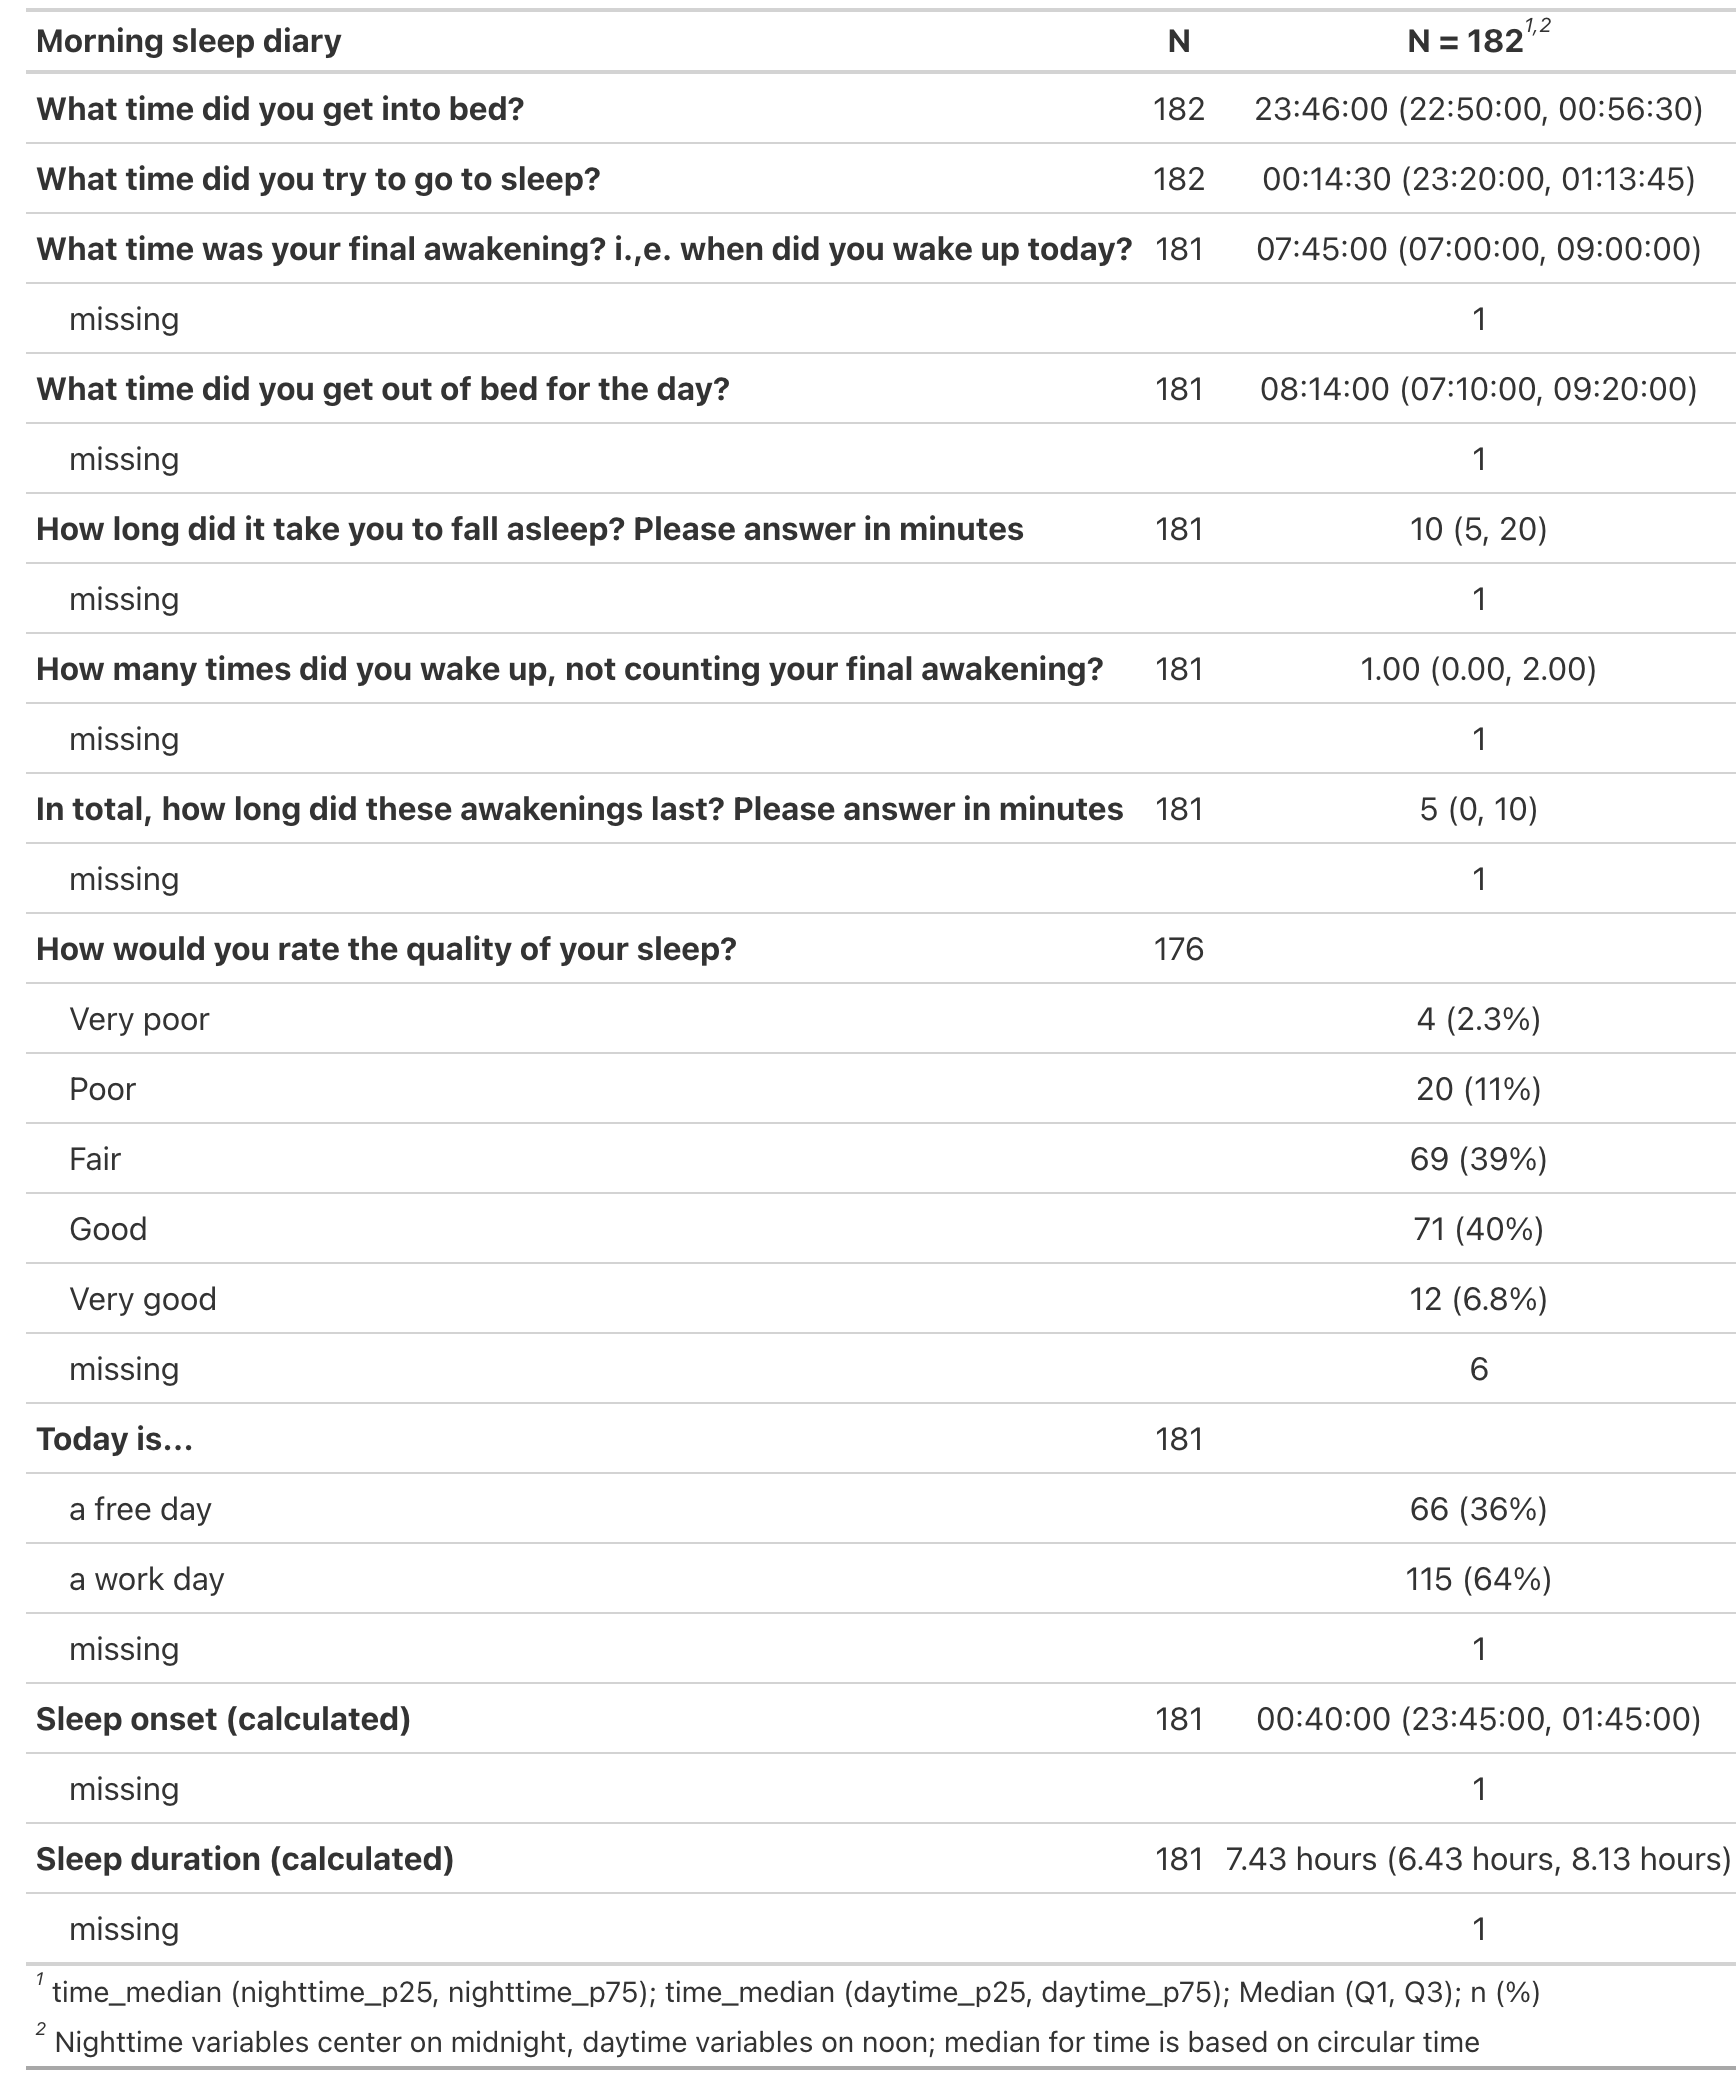
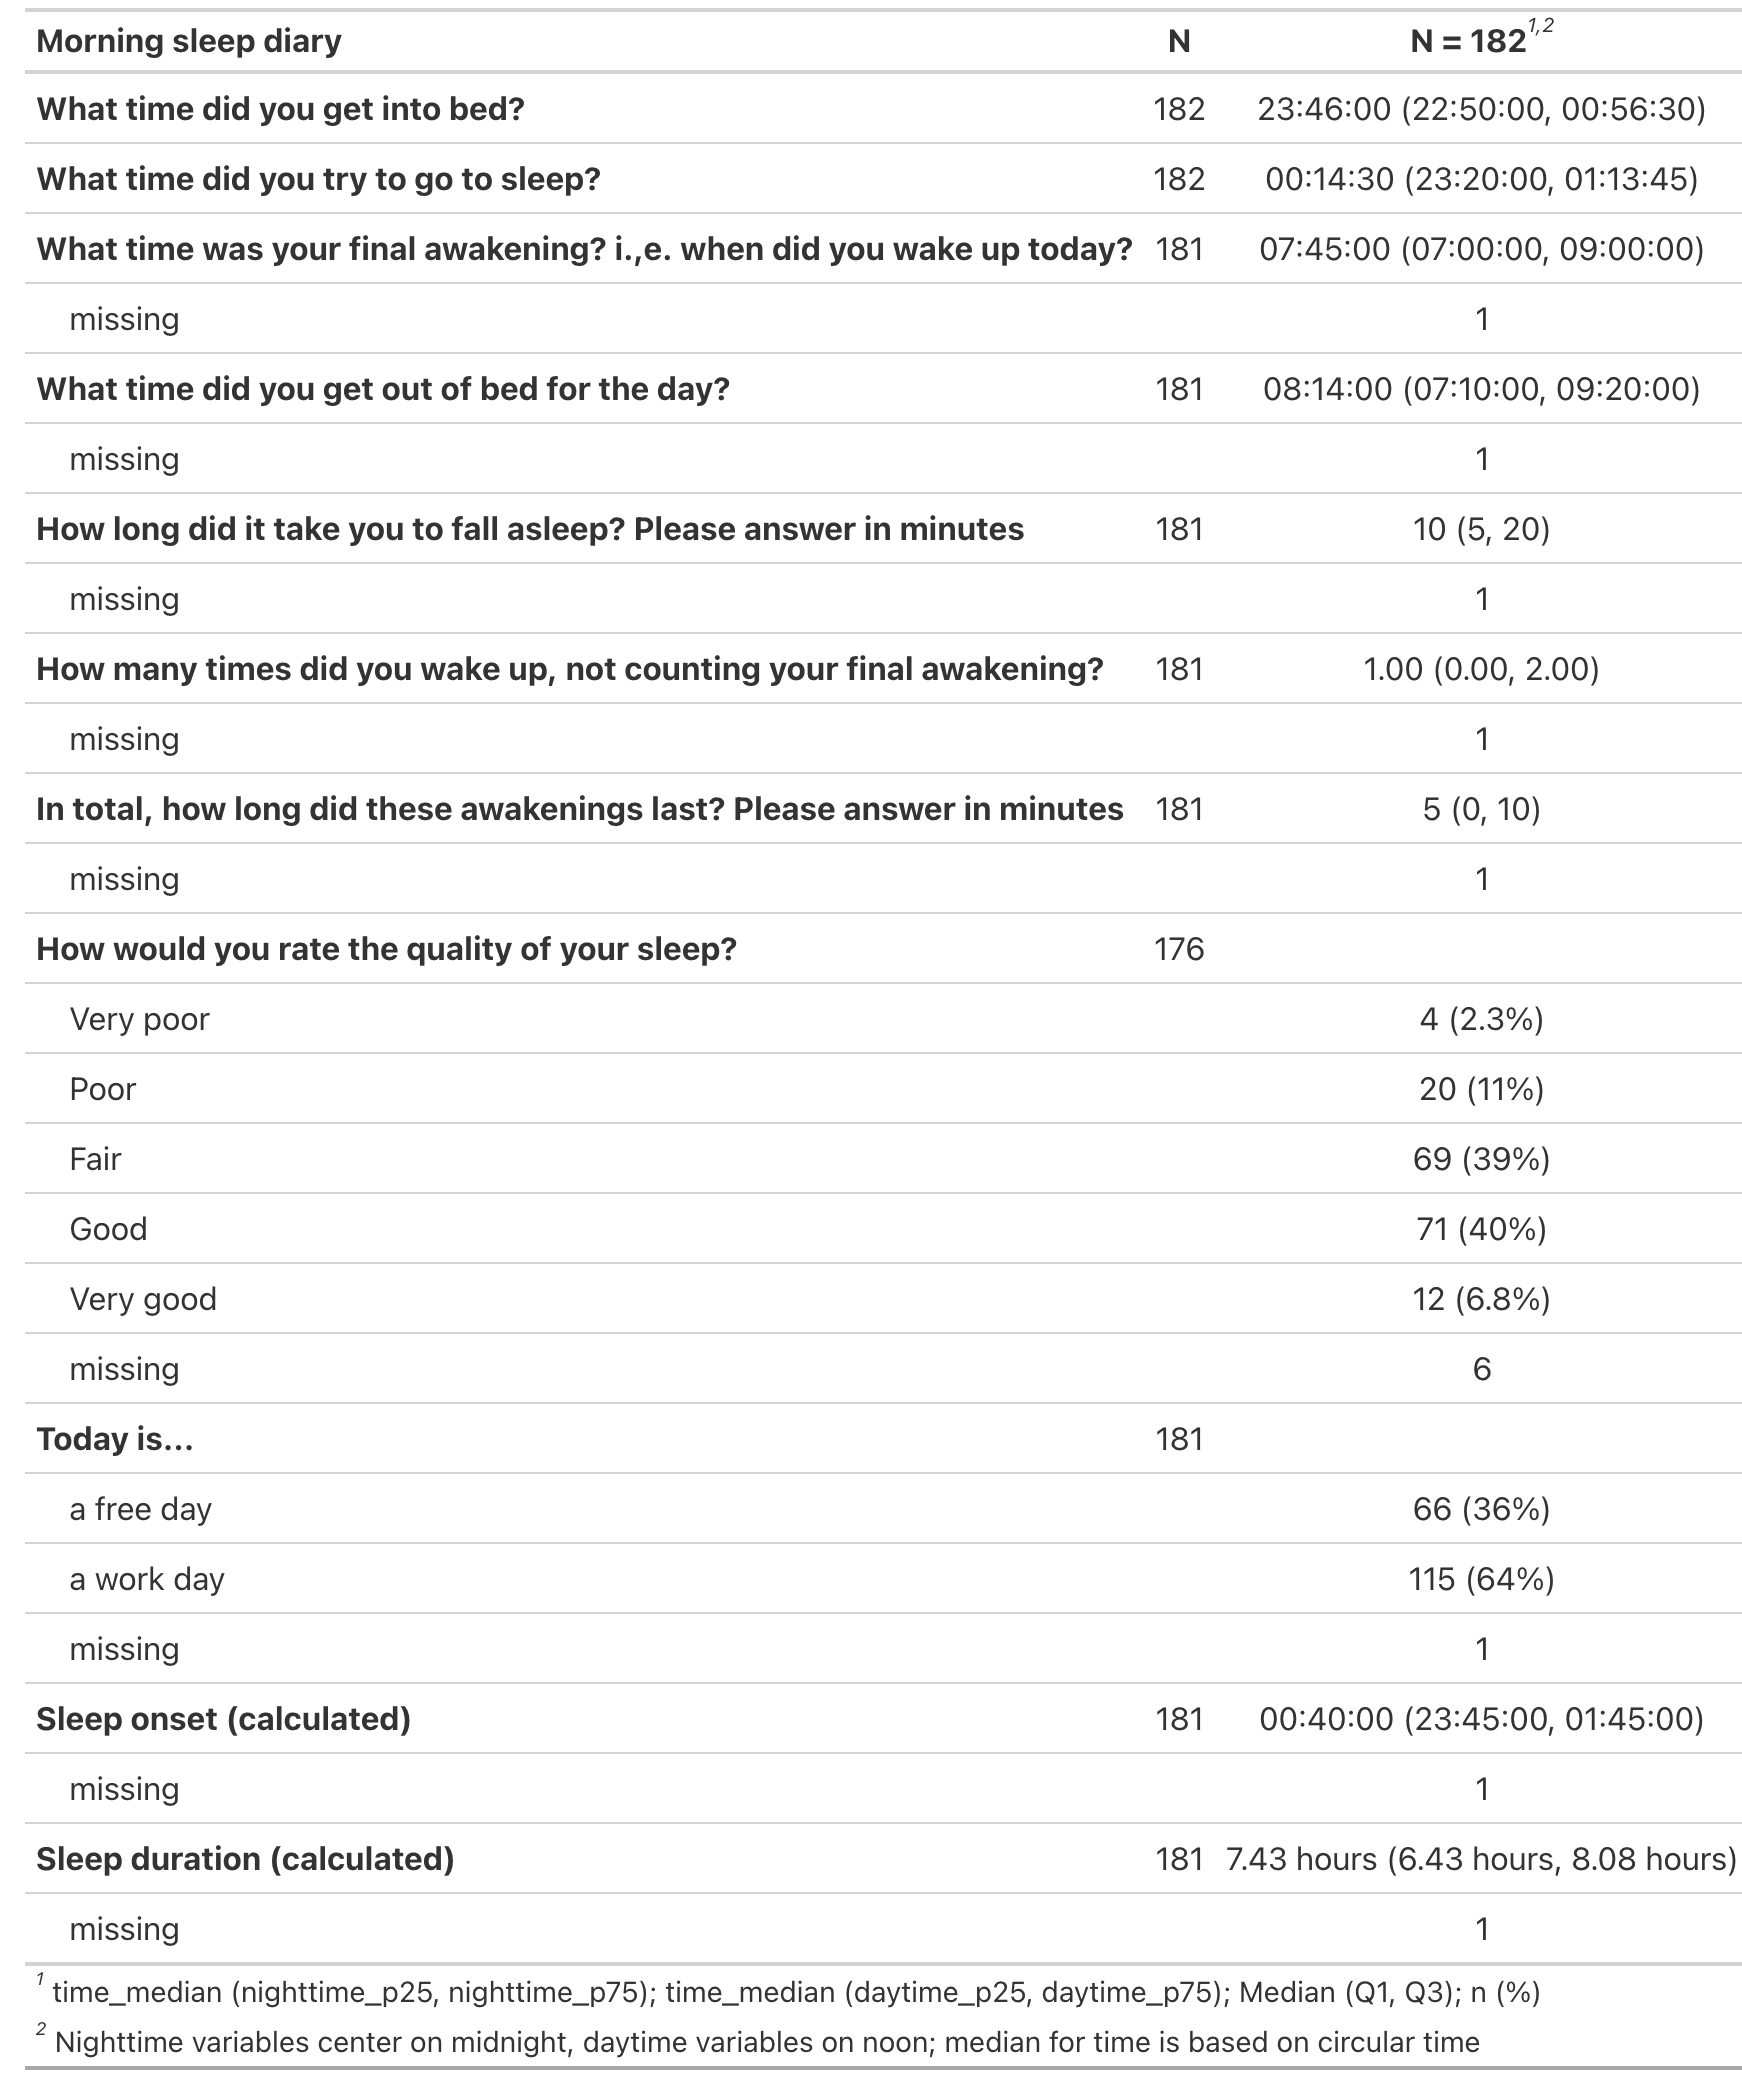
updated sleepdiary

diff --git a/scripts/import_sleepdiaries.html b/scripts/import_sleepdiaries.html
@@ -2428,20 +2428,20 @@ startdate, enddate, scheduledate, status, supplementaldata, serializedresult</co
 <span id="cb19-15"><a href="#cb19-15" aria-hidden="true" tabindex="-1"></a></span>
 <span id="cb19-16"><a href="#cb19-16" aria-hidden="true" tabindex="-1"></a>table_sleep</span></code></pre></div><button title="Copy to Clipboard" class="code-copy-button"><i class="bi"></i></button></div>
 <div class="cell-output-display">
-<div id="iqwpwjwgbz" style="padding-left:0px;padding-right:0px;padding-top:10px;padding-bottom:10px;overflow-x:auto;overflow-y:auto;width:auto;height:auto;">
-<style>#iqwpwjwgbz table {
+<div id="trwwfvjdoe" style="padding-left:0px;padding-right:0px;padding-top:10px;padding-bottom:10px;overflow-x:auto;overflow-y:auto;width:auto;height:auto;">
+<style>#trwwfvjdoe table {
 font-family: system-ui, 'Segoe UI', Roboto, Helvetica, Arial, sans-serif, 'Apple Color Emoji', 'Segoe UI Emoji', 'Segoe UI Symbol', 'Noto Color Emoji';
 -webkit-font-smoothing: antialiased;
 -moz-osx-font-smoothing: grayscale;
 }
-#iqwpwjwgbz thead, #iqwpwjwgbz tbody, #iqwpwjwgbz tfoot, #iqwpwjwgbz tr, #iqwpwjwgbz td, #iqwpwjwgbz th {
+#trwwfvjdoe thead, #trwwfvjdoe tbody, #trwwfvjdoe tfoot, #trwwfvjdoe tr, #trwwfvjdoe td, #trwwfvjdoe th {
 border-style: none;
 }
-#iqwpwjwgbz p {
+#trwwfvjdoe p {
 margin: 0;
 padding: 0;
 }
-#iqwpwjwgbz .gt_table {
+#trwwfvjdoe .gt_table {
 display: table;
 border-collapse: collapse;
 line-height: normal;
@@ -2466,11 +2466,11 @@ border-left-style: none;
 border-left-width: 2px;
 border-left-color: #D3D3D3;
 }
-#iqwpwjwgbz .gt_caption {
+#trwwfvjdoe .gt_caption {
 padding-top: 4px;
 padding-bottom: 4px;
 }
-#iqwpwjwgbz .gt_title {
+#trwwfvjdoe .gt_title {
 color: #333333;
 font-size: 125%;
 font-weight: initial;
@@ -2481,7 +2481,7 @@ padding-right: 5px;
 border-bottom-color: #FFFFFF;
 border-bottom-width: 0;
 }
-#iqwpwjwgbz .gt_subtitle {
+#trwwfvjdoe .gt_subtitle {
 color: #333333;
 font-size: 85%;
 font-weight: initial;
@@ -2492,7 +2492,7 @@ padding-right: 5px;
 border-top-color: #FFFFFF;
 border-top-width: 0;
 }
-#iqwpwjwgbz .gt_heading {
+#trwwfvjdoe .gt_heading {
 background-color: #FFFFFF;
 text-align: center;
 border-bottom-color: #FFFFFF;
@@ -2503,12 +2503,12 @@ border-right-style: none;
 border-right-width: 1px;
 border-right-color: #D3D3D3;
 }
-#iqwpwjwgbz .gt_bottom_border {
+#trwwfvjdoe .gt_bottom_border {
 border-bottom-style: solid;
 border-bottom-width: 2px;
 border-bottom-color: #D3D3D3;
 }
-#iqwpwjwgbz .gt_col_headings {
+#trwwfvjdoe .gt_col_headings {
 border-top-style: solid;
 border-top-width: 2px;
 border-top-color: #D3D3D3;
@@ -2522,7 +2522,7 @@ border-right-style: none;
 border-right-width: 1px;
 border-right-color: #D3D3D3;
 }
-#iqwpwjwgbz .gt_col_heading {
+#trwwfvjdoe .gt_col_heading {
 color: #333333;
 background-color: #FFFFFF;
 font-size: 100%;
@@ -2541,7 +2541,7 @@ padding-left: 5px;
 padding-right: 5px;
 overflow-x: hidden;
 }
-#iqwpwjwgbz .gt_column_spanner_outer {
+#trwwfvjdoe .gt_column_spanner_outer {
 color: #333333;
 background-color: #FFFFFF;
 font-size: 100%;
@@ -2552,13 +2552,13 @@ padding-bottom: 0;
 padding-left: 4px;
 padding-right: 4px;
 }
-#iqwpwjwgbz .gt_column_spanner_outer:first-child {
+#trwwfvjdoe .gt_column_spanner_outer:first-child {
 padding-left: 0;
 }
-#iqwpwjwgbz .gt_column_spanner_outer:last-child {
+#trwwfvjdoe .gt_column_spanner_outer:last-child {
 padding-right: 0;
 }
-#iqwpwjwgbz .gt_column_spanner {
+#trwwfvjdoe .gt_column_spanner {
 border-bottom-style: solid;
 border-bottom-width: 2px;
 border-bottom-color: #D3D3D3;
@@ -2569,10 +2569,10 @@ overflow-x: hidden;
 display: inline-block;
 width: 100%;
 }
-#iqwpwjwgbz .gt_spanner_row {
+#trwwfvjdoe .gt_spanner_row {
 border-bottom-style: hidden;
 }
-#iqwpwjwgbz .gt_group_heading {
+#trwwfvjdoe .gt_group_heading {
 padding-top: 8px;
 padding-bottom: 8px;
 padding-left: 5px;
@@ -2597,7 +2597,7 @@ border-right-color: #D3D3D3;
 vertical-align: middle;
 text-align: left;
 }
-#iqwpwjwgbz .gt_empty_group_heading {
+#trwwfvjdoe .gt_empty_group_heading {
 padding: 0.5px;
 color: #333333;
 background-color: #FFFFFF;
@@ -2611,13 +2611,13 @@ border-bottom-width: 2px;
 border-bottom-color: #D3D3D3;
 vertical-align: middle;
 }
-#iqwpwjwgbz .gt_from_md > :first-child {
+#trwwfvjdoe .gt_from_md > :first-child {
 margin-top: 0;
 }
-#iqwpwjwgbz .gt_from_md > :last-child {
+#trwwfvjdoe .gt_from_md > :last-child {
 margin-bottom: 0;
 }
-#iqwpwjwgbz .gt_row {
+#trwwfvjdoe .gt_row {
 padding-top: 8px;
 padding-bottom: 8px;
 padding-left: 5px;
@@ -2635,7 +2635,7 @@ border-right-color: #D3D3D3;
 vertical-align: middle;
 overflow-x: hidden;
 }
-#iqwpwjwgbz .gt_stub {
+#trwwfvjdoe .gt_stub {
 color: #333333;
 background-color: #FFFFFF;
 font-size: 100%;
@@ -2647,7 +2647,7 @@ border-right-color: #D3D3D3;
 padding-left: 5px;
 padding-right: 5px;
 }
-#iqwpwjwgbz .gt_stub_row_group {
+#trwwfvjdoe .gt_stub_row_group {
 color: #333333;
 background-color: #FFFFFF;
 font-size: 100%;
@@ -2660,13 +2660,13 @@ padding-left: 5px;
 padding-right: 5px;
 vertical-align: top;
 }
-#iqwpwjwgbz .gt_row_group_first td {
+#trwwfvjdoe .gt_row_group_first td {
 border-top-width: 2px;
 }
-#iqwpwjwgbz .gt_row_group_first th {
+#trwwfvjdoe .gt_row_group_first th {
 border-top-width: 2px;
 }
-#iqwpwjwgbz .gt_summary_row {
+#trwwfvjdoe .gt_summary_row {
 color: #333333;
 background-color: #FFFFFF;
 text-transform: inherit;
@@ -2675,14 +2675,14 @@ padding-bottom: 8px;
 padding-left: 5px;
 padding-right: 5px;
 }
-#iqwpwjwgbz .gt_first_summary_row {
+#trwwfvjdoe .gt_first_summary_row {
 border-top-style: solid;
 border-top-color: #D3D3D3;
 }
-#iqwpwjwgbz .gt_first_summary_row.thick {
+#trwwfvjdoe .gt_first_summary_row.thick {
 border-top-width: 2px;
 }
-#iqwpwjwgbz .gt_last_summary_row {
+#trwwfvjdoe .gt_last_summary_row {
 padding-top: 8px;
 padding-bottom: 8px;
 padding-left: 5px;
@@ -2691,7 +2691,7 @@ border-bottom-style: solid;
 border-bottom-width: 2px;
 border-bottom-color: #D3D3D3;
 }
-#iqwpwjwgbz .gt_grand_summary_row {
+#trwwfvjdoe .gt_grand_summary_row {
 color: #333333;
 background-color: #FFFFFF;
 text-transform: inherit;
@@ -2700,7 +2700,7 @@ padding-bottom: 8px;
 padding-left: 5px;
 padding-right: 5px;
 }
-#iqwpwjwgbz .gt_first_grand_summary_row {
+#trwwfvjdoe .gt_first_grand_summary_row {
 padding-top: 8px;
 padding-bottom: 8px;
 padding-left: 5px;
@@ -2709,7 +2709,7 @@ border-top-style: double;
 border-top-width: 6px;
 border-top-color: #D3D3D3;
 }
-#iqwpwjwgbz .gt_last_grand_summary_row_top {
+#trwwfvjdoe .gt_last_grand_summary_row_top {
 padding-top: 8px;
 padding-bottom: 8px;
 padding-left: 5px;
@@ -2718,10 +2718,10 @@ border-bottom-style: double;
 border-bottom-width: 6px;
 border-bottom-color: #D3D3D3;
 }
-#iqwpwjwgbz .gt_striped {
+#trwwfvjdoe .gt_striped {
 background-color: rgba(128, 128, 128, 0.05);
 }
-#iqwpwjwgbz .gt_table_body {
+#trwwfvjdoe .gt_table_body {
 border-top-style: solid;
 border-top-width: 2px;
 border-top-color: #D3D3D3;
@@ -2729,7 +2729,7 @@ border-bottom-style: solid;
 border-bottom-width: 2px;
 border-bottom-color: #D3D3D3;
 }
-#iqwpwjwgbz .gt_footnotes {
+#trwwfvjdoe .gt_footnotes {
 color: #333333;
 background-color: #FFFFFF;
 border-bottom-style: none;
@@ -2742,7 +2742,7 @@ border-right-style: none;
 border-right-width: 2px;
 border-right-color: #D3D3D3;
 }
-#iqwpwjwgbz .gt_footnote {
+#trwwfvjdoe .gt_footnote {
 margin: 0px;
 font-size: 90%;
 padding-top: 4px;
@@ -2750,7 +2750,7 @@ padding-bottom: 4px;
 padding-left: 5px;
 padding-right: 5px;
 }
-#iqwpwjwgbz .gt_sourcenotes {
+#trwwfvjdoe .gt_sourcenotes {
 color: #333333;
 background-color: #FFFFFF;
 border-bottom-style: none;
@@ -2763,64 +2763,64 @@ border-right-style: none;
 border-right-width: 2px;
 border-right-color: #D3D3D3;
 }
-#iqwpwjwgbz .gt_sourcenote {
+#trwwfvjdoe .gt_sourcenote {
 font-size: 90%;
 padding-top: 4px;
 padding-bottom: 4px;
 padding-left: 5px;
 padding-right: 5px;
 }
-#iqwpwjwgbz .gt_left {
+#trwwfvjdoe .gt_left {
 text-align: left;
 }
-#iqwpwjwgbz .gt_center {
+#trwwfvjdoe .gt_center {
 text-align: center;
 }
-#iqwpwjwgbz .gt_right {
+#trwwfvjdoe .gt_right {
 text-align: right;
 font-variant-numeric: tabular-nums;
 }
-#iqwpwjwgbz .gt_font_normal {
+#trwwfvjdoe .gt_font_normal {
 font-weight: normal;
 }
-#iqwpwjwgbz .gt_font_bold {
+#trwwfvjdoe .gt_font_bold {
 font-weight: bold;
 }
-#iqwpwjwgbz .gt_font_italic {
+#trwwfvjdoe .gt_font_italic {
 font-style: italic;
 }
-#iqwpwjwgbz .gt_super {
+#trwwfvjdoe .gt_super {
 font-size: 65%;
 }
-#iqwpwjwgbz .gt_footnote_marks {
+#trwwfvjdoe .gt_footnote_marks {
 font-size: 75%;
 vertical-align: 0.4em;
 position: initial;
 }
-#iqwpwjwgbz .gt_asterisk {
+#trwwfvjdoe .gt_asterisk {
 font-size: 100%;
 vertical-align: 0;
 }
-#iqwpwjwgbz .gt_indent_1 {
+#trwwfvjdoe .gt_indent_1 {
 text-indent: 5px;
 }
-#iqwpwjwgbz .gt_indent_2 {
+#trwwfvjdoe .gt_indent_2 {
 text-indent: 10px;
 }
-#iqwpwjwgbz .gt_indent_3 {
+#trwwfvjdoe .gt_indent_3 {
 text-indent: 15px;
 }
-#iqwpwjwgbz .gt_indent_4 {
+#trwwfvjdoe .gt_indent_4 {
 text-indent: 20px;
 }
-#iqwpwjwgbz .gt_indent_5 {
+#trwwfvjdoe .gt_indent_5 {
 text-indent: 25px;
 }
-#iqwpwjwgbz .katex-display {
+#trwwfvjdoe .katex-display {
 display: inline-flex !important;
 margin-bottom: 0.75em !important;
 }
-#iqwpwjwgbz div.Reactable > div.rt-table > div.rt-thead > div.rt-tr.rt-tr-group-header > div.rt-th-group:after {
+#trwwfvjdoe div.Reactable > div.rt-table > div.rt-thead > div.rt-tr.rt-tr-group-header > div.rt-th-group:after {
 height: 0px !important;
 }
 </style>
@@ -2984,7 +2984,7 @@ height: 0px !important;
 <tr class="even">
 <td class="gt_row gt_left" headers="label" style="font-weight: bold">Sleep duration (calculated)</td>
 <td class="gt_row gt_center" headers="n">181</td>
-<td class="gt_row gt_center" headers="stat_0">7.43 hours (6.43 hours, 8.13 hours)</td>
+<td class="gt_row gt_center" headers="stat_0">7.43 hours (6.43 hours, 8.08 hours)</td>
 </tr>
 <tr class="odd">
 <td class="gt_row gt_left" headers="label">    missing</td>
@@ -3007,7 +3007,7 @@ height: 0px !important;
 </div>
 <div class="code-copy-outer-scaffold"><div class="sourceCode cell-code" id="cb20"><pre class="sourceCode r code-with-copy"><code class="sourceCode r"><span id="cb20-1"><a href="#cb20-1" aria-hidden="true" tabindex="-1"></a><span class="fu">gtsave</span>(table_sleep <span class="sc">|&gt;</span> <span class="fu">as_gt</span>(), <span class="at">filename =</span> <span class="st">&quot;../output/tables/table_sleepdiary.png&quot;</span>)</span></code></pre></div><button title="Copy to Clipboard" class="code-copy-button"><i class="bi"></i></button></div>
 <div class="cell-output cell-output-stderr">
-<pre><code>file:////var/folders/9p/326_k3kx43qbn_cyl1rqfhb00000gn/T//RtmpSx9Cwn/file2d8c6a7d4c6b.html screenshot completed</code></pre>
+<pre><code>file:////var/folders/9p/326_k3kx43qbn_cyl1rqfhb00000gn/T//Rtmp7HqCqS/file65d77ef8cb95.html screenshot completed</code></pre>
 </div>
 </div>
 <section id="translate-comments" class="level3">
